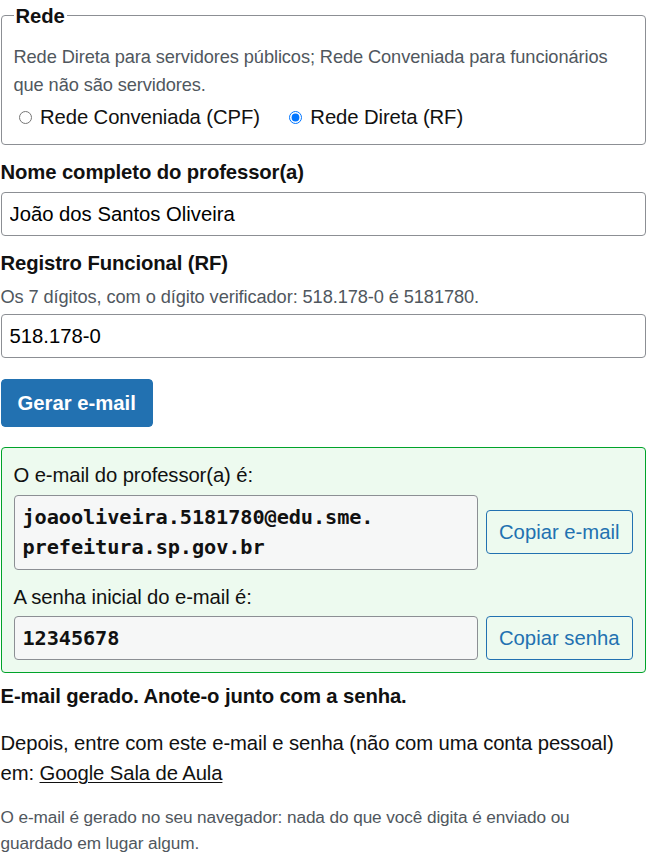
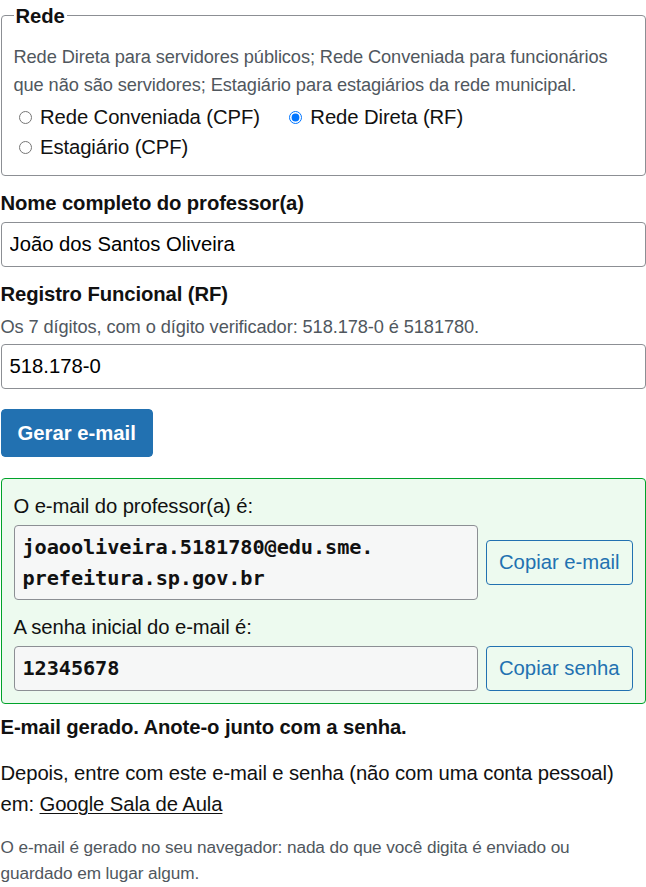
Offer interns on the teachers' form
Interns of the city schools give their CPF, and their address carries an
"e" before its digits (mariasilva.e52998224725). They are a third option
next to the partner and direct networks.

Claude-Session: https://claude.ai/code/session_018srx5hc431EYmG4MHUr2KA

diff --git a/tests/js/generator.test.js b/tests/js/generator.test.js
@@ -146,6 +146,12 @@ describe( 'addresses', () => {
 			.toBe( 'mariasilva.5181780@edu.sme.prefeitura.sp.gov.br' );
 	} );
 
+	it( 'puts an "e" before an intern\'s CPF', () => {
+		expect( gen.teacherEmail( { network: 'intern', name: 'Maria da Silva', cpf: '529.982.247-25' }, config ).email )
+			.toBe( 'mariasilva.e52998224725@edu.sme.prefeitura.sp.gov.br' );
+		expect( gen.teacherEmail( { network: 'intern', name: 'A B', cpf: '123' }, config ).errors ).toEqual( [ 'cpf' ] );
+	} );
+
 	it( 'reports the teacher fields in error', () => {
 		expect( gen.teacherEmail( { network: 'direct', name: '', rf: '123' }, config ).errors ).toEqual( [ 'name', 'rf' ] );
 		expect( gen.teacherEmail( { network: 'partner', name: 'A B', cpf: '123' }, config ).errors ).toEqual( [ 'cpf' ] );
@@ -349,6 +355,21 @@ describe( 'teacher form', () => {
 		type( ui.inputs.rf, '518.178-0' );
 		submit( div );
 		expect( ui.email() ).toBe( 'mariasilva.5181780@edu.sme.prefeitura.sp.gov.br' );
+	} );
+
+	it( 'offers interns, with the CPF field', () => {
+		const div = container();
+		const ui = gen.mount( div, config, 'teachers' );
+		const intern = div.querySelector( 'input[value="intern"]' );
+		intern.checked = true;
+		intern.dispatchEvent( new Event( 'change', { bubbles: true } ) );
+		expect( div.querySelector( '[data-ie-field="rf"]' ).hidden ).toBe( true );
+		expect( div.querySelector( '[data-ie-field="cpf"]' ).hidden ).toBe( false );
+
+		type( ui.inputs.name, 'Maria da Silva' );
+		type( ui.inputs.cpf, '52998224725' );
+		submit( div );
+		expect( ui.email() ).toBe( 'mariasilva.e52998224725@edu.sme.prefeitura.sp.gov.br' );
 	} );
 
 	it( 'marks a wrong CPF', () => {

diff --git a/assets/js/institutional-email.js b/assets/js/institutional-email.js
@@ -246,7 +246,10 @@
 	 * reported apart, so the form can say "check the number" rather than
 	 * "type seven digits".
 	 *
-	 * @param {Object} values { network: 'direct'|'partner', name, rf, cpf }.
+	 * An intern (network 'intern') has the partner network's address with an
+	 * "e" before the CPF digits: mariasilva.e12345678909.
+	 *
+	 * @param {Object} values { network: 'direct'|'partner'|'intern', name, rf, cpf }.
 	 * @param {Object} config Configuration (domain, checkRfDigit).
 	 * @return {{email: string, errors: string[], reasons: Object}} The address, or the keys of the fields in error and why.
 	 */
@@ -268,7 +271,8 @@
 		if ( ! direct && ! isCpf( id ) ) {
 			errors.push( 'cpf' );
 		}
-		return { email: errors.length ? '' : name + '.' + id + '@' + config.domain, errors: errors, reasons: reasons };
+		var prefix = 'intern' === values.network ? 'e' : '';
+		return { email: errors.length ? '' : name + '.' + prefix + id + '@' + config.domain, errors: errors, reasons: reasons };
 	}
 
 	/**
@@ -480,7 +484,7 @@
 				el( doc, 'legend', { text: s.networkLegend } ),
 				el( doc, 'p', { class: 'ie-hint', text: s.networkHint } ),
 			] );
-			[ [ 'partner', s.networkPartner ], [ 'direct', s.networkDirect ] ].forEach( function ( option, i ) {
+			[ [ 'partner', s.networkPartner ], [ 'direct', s.networkDirect ], [ 'intern', s.networkIntern ] ].forEach( function ( option, i ) {
 				var id = uid + '-network-' + option[ 0 ];
 				network.appendChild( el( doc, 'label', { for: id, class: 'ie-radio' }, [
 					el( doc, 'input', { type: 'radio', id: id, name: uid + '-network', value: option[ 0 ], checked: 0 === i } ),

diff --git a/languages/institutional-email-pt_BR.l10n.php b/languages/institutional-email-pt_BR.l10n.php
@@ -21,7 +21,7 @@ return array (
     'What a person sees on the page.' => 'O que a pessoa vê na página.',
     'Full name and date of birth.' => 'Nome completo e data de nascimento.',
     'Students' => 'Alunos',
-    'Full name, then the network: the CPF for the partner network, or the 7 digits of the RF for the direct network.' => 'Nome completo e, depois, a rede: o CPF para a rede conveniada, ou os 7 dígitos do RF para a rede direta.',
+    'Full name, then the network: the CPF for the partner network, the 7 digits of the RF for the direct network, or the CPF for an intern.' => 'Nome completo e, em seguida, a rede: o CPF para a Rede Conveniada, os 7 dígitos do RF para a Rede Direta ou o CPF para estagiário.',
     'Teachers' => 'Professores',
     'State students' => 'Alunos da rede estadual',
     'The RA and its check digit, as the SED shows them, and the date of birth, which is also the initial password. A link points to the SED page that looks the RA up.' => 'O RA e seu dígito, como a SED mostra, e a data de nascimento, que também é a senha inicial. Um link leva à página da SED que consulta o RA.',
@@ -44,6 +44,8 @@ return array (
     'How the address is built. In the city schools accents are dropped, and only the letters a to z of each name reach it.' => 'Como o endereço é montado. Na rede municipal os acentos são removidos, e só as letras de a a z de cada nome entram nele.',
     'First name, the initial of each middle name that is long enough, last name, a dot, and the date of birth as DDMMYYYY. Maria Aparecida da Silva, born on 7 March 2012: mariaasilva.07032012.' => 'Primeiro nome, a inicial de cada nome do meio longo o bastante, último nome, um ponto e a data de nascimento como DDMMAAAA. Maria Aparecida da Silva, nascida em 7 de março de 2012: mariaasilva.07032012.',
     'First and last name, a dot, and the RF or the CPF digits. Maria da Silva, RF 5181780: mariasilva.5181780.' => 'Primeiro e último nome, um ponto e os dígitos do RF ou do CPF. Maria da Silva, RF 5181780: mariasilva.5181780.',
+    'As a partner-network teacher, with an "e" before the CPF digits: mariasilva.e52998224725.' => 'Como na Rede Conveniada, com um "e" antes dos dígitos do CPF: mariasilva.e52998224725.',
+    'Interns' => 'Estagiários',
     'Middle names that count' => 'Nomes do meio que contam',
     'From %1$d to %2$d letters (%3$d by default). Shorter middle names, such as "da" and "dos", are left out of a student\'s address.' => 'De %1$d a %2$d letras (%3$d por padrão). Nomes do meio mais curtos, como "da" e "dos", ficam fora do endereço do aluno.',
     'Domain and password' => 'Domínio e senha',
@@ -118,9 +120,10 @@ return array (
     'Student\'s date of birth' => 'Data de nascimento do aluno',
     'Teacher\'s full name' => 'Nome completo do professor(a)',
     'Network' => 'Rede',
-    'Direct network for public servants; partner network for staff who are not public servants.' => 'Rede Direta para servidores públicos; Rede Conveniada para funcionários que não são servidores.',
+    'Direct network for public servants; partner network for staff who are not public servants; Intern for interns of the city schools.' => 'Rede Direta para servidores públicos; Rede Conveniada para funcionários que não são servidores; Estagiário para estagiários da rede municipal.',
     'Partner network (CPF)' => 'Rede Conveniada (CPF)',
     'Direct network (RF)' => 'Rede Direta (RF)',
+    'Intern (CPF)' => 'Estagiário (CPF)',
     'Registro Funcional (RF)' => 'Registro Funcional (RF)',
     'The 7 digits, check digit included: 518.178-0 is 5181780.' => 'Os 7 dígitos, com o dígito verificador: 518.178-0 é 5181780.',
     'CPF' => 'CPF',

diff --git a/src/admin/documentation.php b/src/admin/documentation.php
@@ -47,7 +47,7 @@ final class Documentation {
 				'intro' => __( 'What a person sees on the page.', 'institutional-email' ),
 				'items' => array(
 					array( __( 'Students', 'institutional-email' ), __( 'Full name and date of birth.', 'institutional-email' ) ),
-					array( __( 'Teachers', 'institutional-email' ), __( 'Full name, then the network: the CPF for the partner network, or the 7 digits of the RF for the direct network.', 'institutional-email' ) ),
+					array( __( 'Teachers', 'institutional-email' ), __( 'Full name, then the network: the CPF for the partner network, the 7 digits of the RF for the direct network, or the CPF for an intern.', 'institutional-email' ) ),
 					array( __( 'State students', 'institutional-email' ), __( 'The RA and its check digit, as the SED shows them, and the date of birth, which is also the initial password. A link points to the SED page that looks the RA up.', 'institutional-email' ) ),
 					array( __( 'State teachers', 'institutional-email' ), __( 'No form: an explanation that the address is created on the first access to the SED, and a link there.', 'institutional-email' ) ),
 					array( __( 'Errors', 'institutional-email' ), __( 'Each field says what is wrong, and a status line announces it to screen readers.', 'institutional-email' ) ),
@@ -74,6 +74,7 @@ final class Documentation {
 				'items' => array(
 					array( __( 'Students', 'institutional-email' ), __( 'First name, the initial of each middle name that is long enough, last name, a dot, and the date of birth as DDMMYYYY. Maria Aparecida da Silva, born on 7 March 2012: mariaasilva.07032012.', 'institutional-email' ) ),
 					array( __( 'Teachers', 'institutional-email' ), __( 'First and last name, a dot, and the RF or the CPF digits. Maria da Silva, RF 5181780: mariasilva.5181780.', 'institutional-email' ) ),
+					array( __( 'Interns', 'institutional-email' ), __( 'As a partner-network teacher, with an "e" before the CPF digits: mariasilva.e52998224725.', 'institutional-email' ) ),
 					array(
 						__( 'Middle names that count', 'institutional-email' ),
 						sprintf(

diff --git a/src/config.php b/src/config.php
@@ -100,9 +100,10 @@ final class Config {
 			'birthDate'           => __( 'Student\'s date of birth', 'institutional-email' ),
 			'teacherName'         => __( 'Teacher\'s full name', 'institutional-email' ),
 			'networkLegend'       => __( 'Network', 'institutional-email' ),
-			'networkHint'         => __( 'Direct network for public servants; partner network for staff who are not public servants.', 'institutional-email' ),
+			'networkHint'         => __( 'Direct network for public servants; partner network for staff who are not public servants; Intern for interns of the city schools.', 'institutional-email' ),
 			'networkPartner'      => __( 'Partner network (CPF)', 'institutional-email' ),
 			'networkDirect'       => __( 'Direct network (RF)', 'institutional-email' ),
+			'networkIntern'       => __( 'Intern (CPF)', 'institutional-email' ),
 			'rf'                  => __( 'Registro Funcional (RF)', 'institutional-email' ),
 			'rfHint'              => __( 'The 7 digits, check digit included: 518.178-0 is 5181780.', 'institutional-email' ),
 			'cpf'                 => __( 'CPF', 'institutional-email' ),

diff --git a/README.md b/README.md
@@ -18,6 +18,7 @@ It comes in two forms, both published on every [release](https://github.com/rpgm
 | Student | full name, date of birth | first name + the initial of each middle name of 4 letters or more + last name, a dot, the date as DDMMYYYY |
 | Teacher, direct network | full name, RF (7 digits) | first name + last name, a dot, the RF |
 | Teacher, partner network | full name, CPF (validated) | first name + last name, a dot, the CPF digits |
+| Intern (on the teachers' form) | full name, CPF (validated) | first name + last name, a dot, `e`, the CPF digits |
 
 All at `@edu.sme.prefeitura.sp.gov.br`, with the initial password `12345678`. The RF's seventh digit is a check digit, checked with Free Form Certificate's rule (an administrator can turn the check off), and RF and CPF are masked as `000.000-0` and `000.000.000-00`. Accents are dropped and only the letters a to z of each name reach the address. Examples: Maria Aparecida da Silva, born on 7 March 2012 → `mariaasilva.07032012@edu.sme.prefeitura.sp.gov.br`; João dos Santos Oliveira, RF 5181780 → `joaooliveira.5181780@edu.sme.prefeitura.sp.gov.br`.
 

diff --git a/CHANGELOG.md b/CHANGELOG.md
@@ -9,6 +9,7 @@ The format follows [Keep a Changelog](https://keepachangelog.com/en/1.1.0/).
 
 - **São Paulo state schools (SEDUC-SP)** (#13). Settings → General chooses the school network; `network="state"` on a shortcode, or `?network=state` on the standalone page, serves it on one page. State students give their RA (padded with zeros to 12 digits), its check digit and their date of birth, which is also the initial password; state teachers are pointed to the SED, where their address is created.
 - **The RF's check digit is checked** (#13), with Free Form Certificate's rule; a mistyped RF is refused with its own message instead of becoming an address that does not exist. On by default, with a switch on the Address rules tab.
+- **Interns of the city schools** (#24). The teachers' form offers them next to the two networks; they give their CPF and the address carries an "e" before its digits (`mariasilva.e52998224725`).
 
 ### Changed
 
